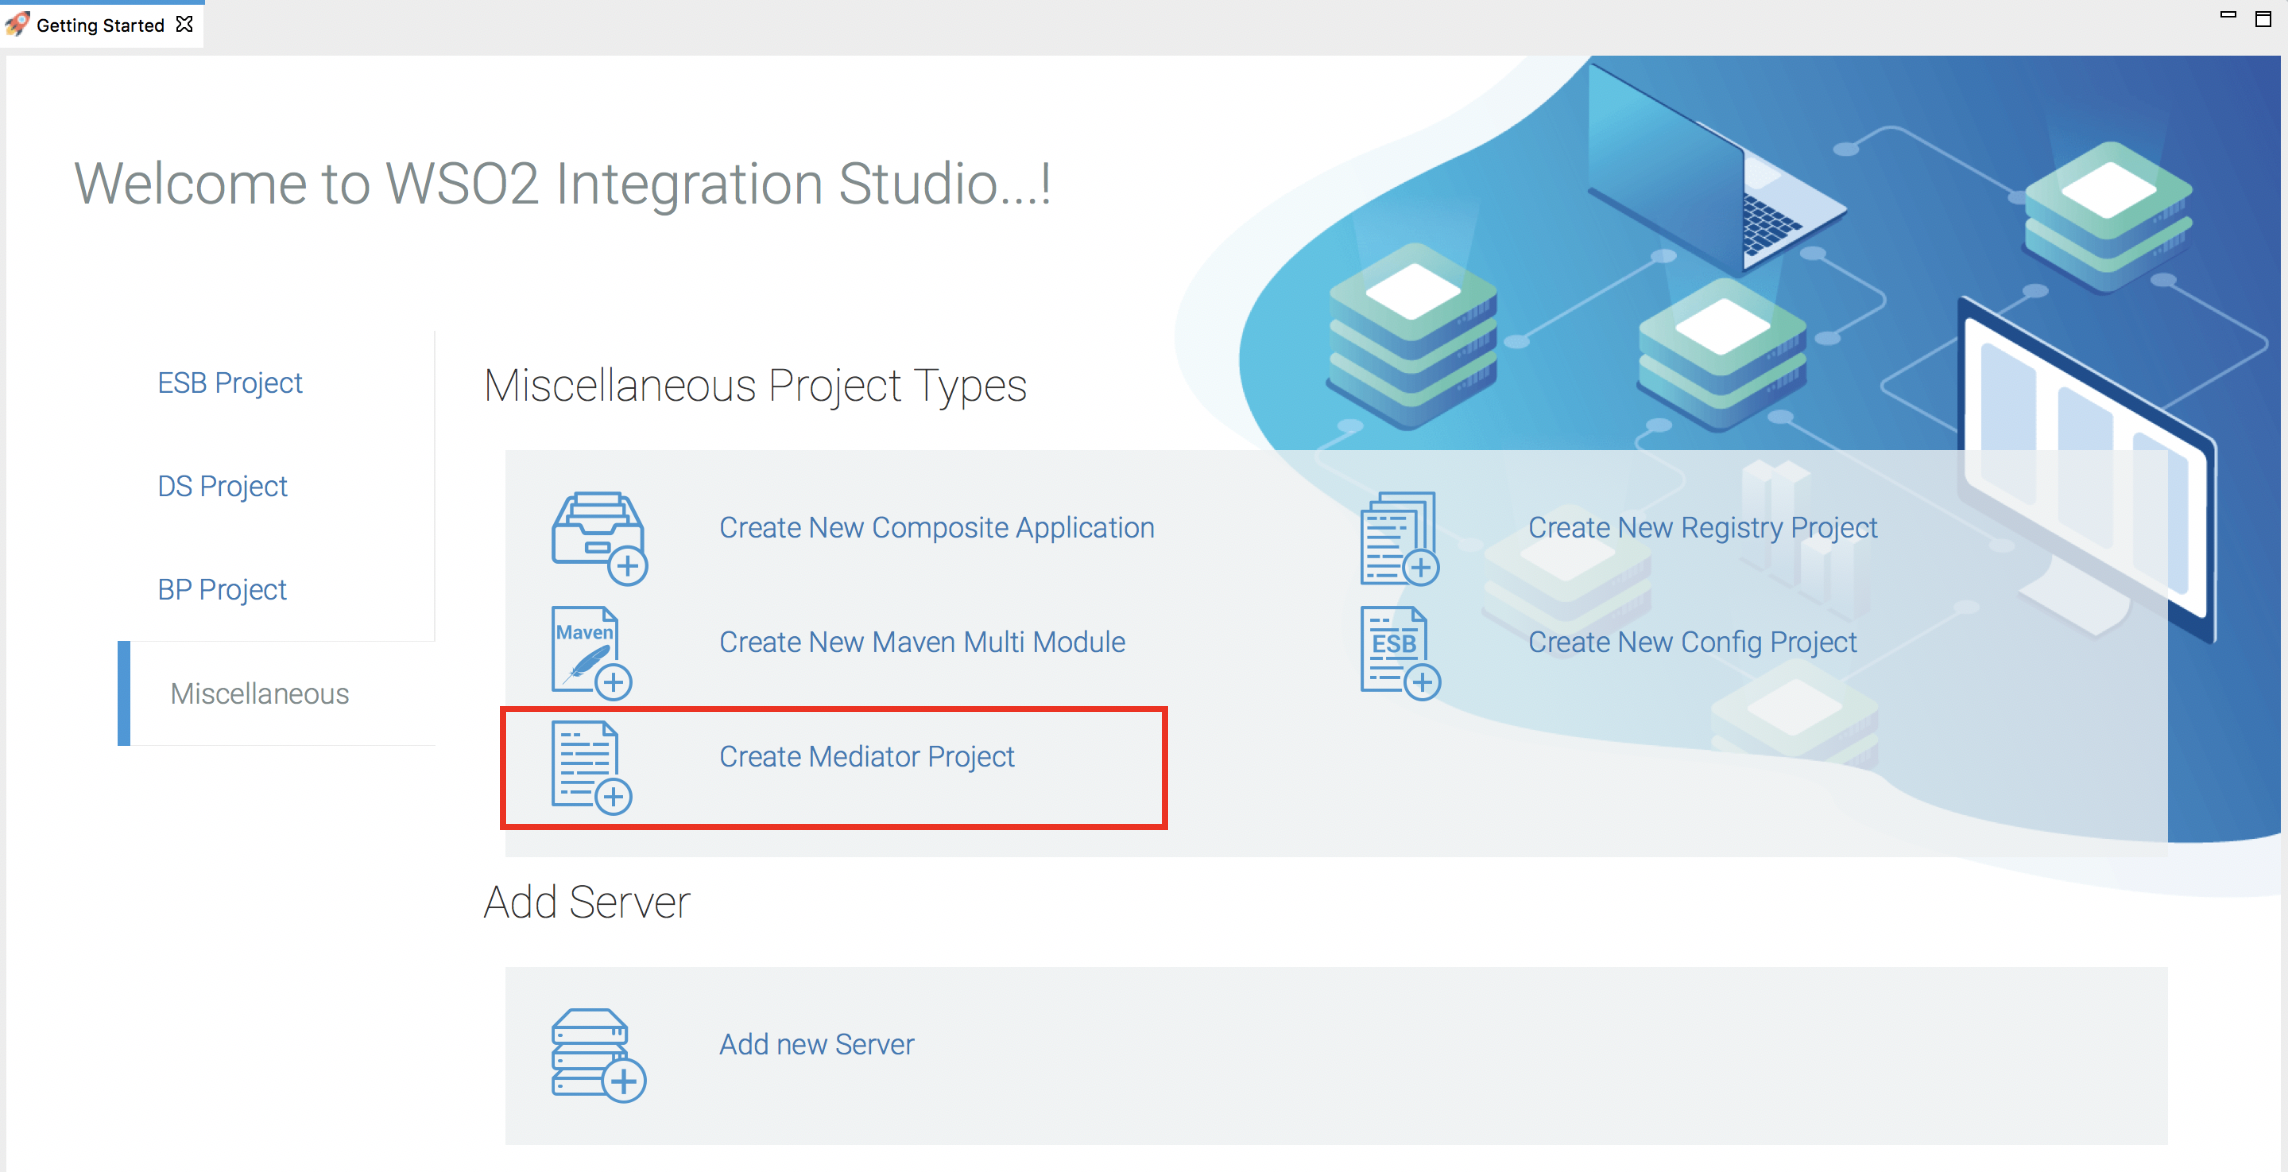
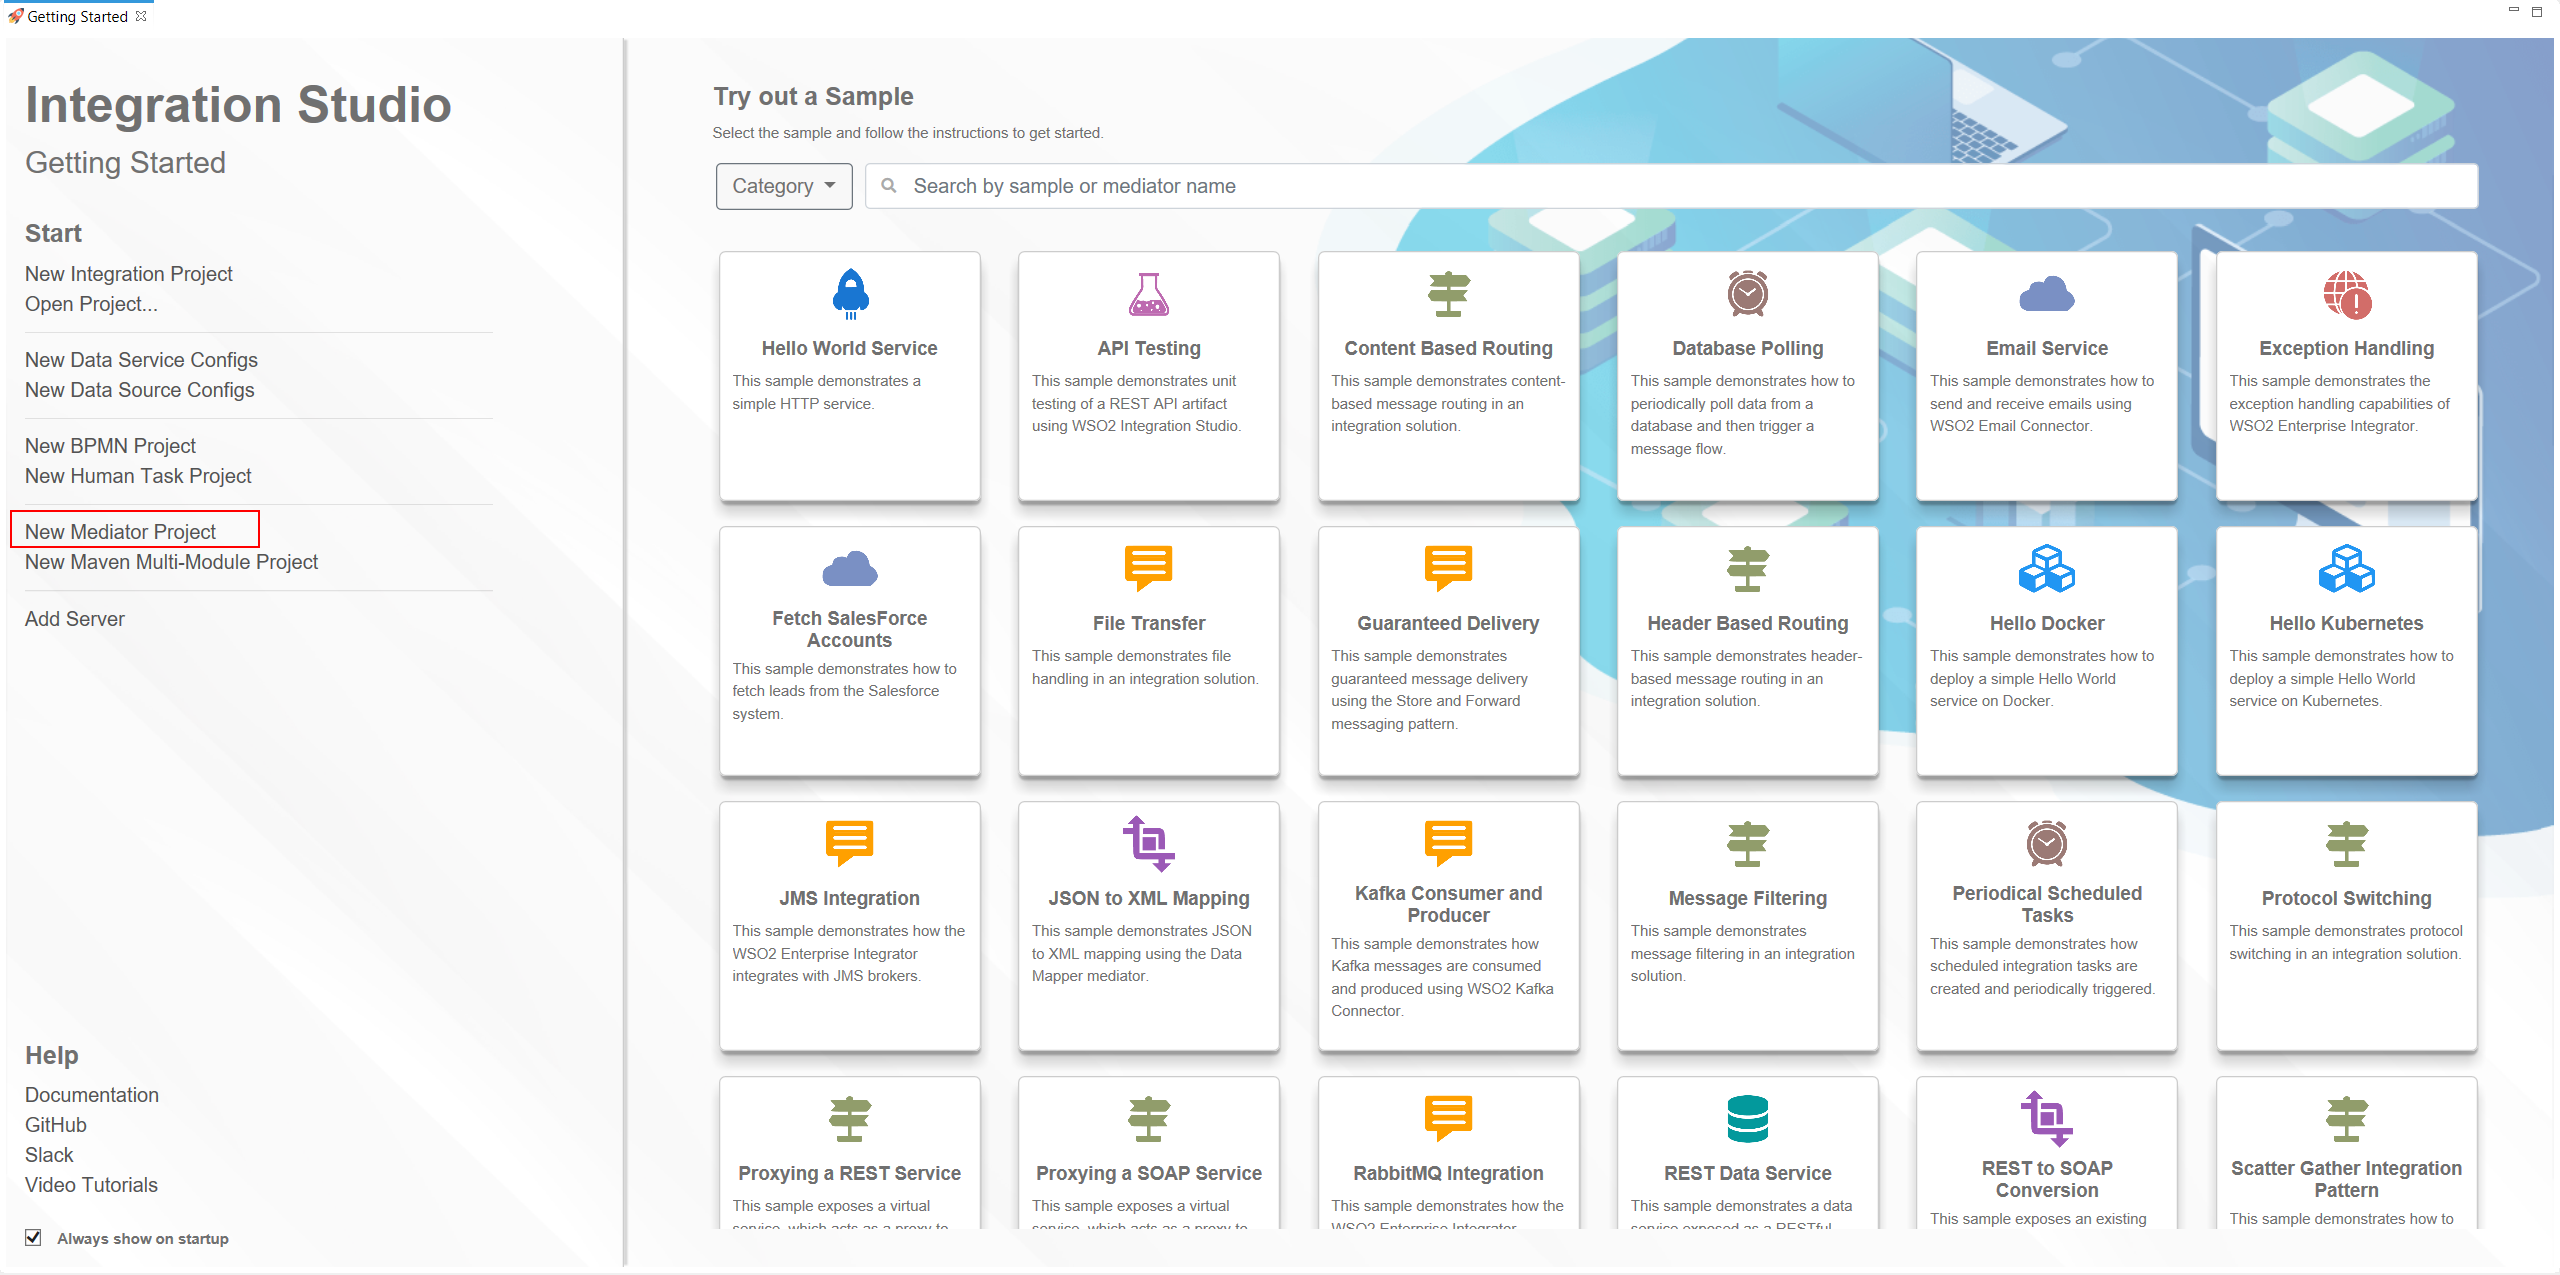
Update Creating a Custom Mediator Doc

diff --git a/en/micro-integrator/docs/develop/customizations/creating-custom-mediators.md b/en/micro-integrator/docs/develop/customizations/creating-custom-mediators.md
@@ -26,7 +26,7 @@ The mediator project is created in the workspace location you specified with a n
 
 Follow the steps below to import a Java mediator project (that includes a Java class, which extends the `         org.apache.synapse.mediators.AbstractMediator        ` class) to WSO2 Integration Studio.
 
-1.  Open <b>WSO2 Integration Studio</b> and click <b>Miscellaneous → Create Mediator Project</b> in the <b>Getting Started</b> view as shown below.
+1.  Open <b>WSO2 Integration Studio</b> and click on <b>Create Mediator Project</b> in the <b>Getting Started</b> view as shown above.
 2.  In the dialog that opens, select **Import From Workspace** and click **Next**.
 3.  Specify the mediator project in this workspace that you want to import. Only projects with source files that extend `org.apache.synapse.mediators.AbstractMediator` are listed. Optionally, you can change the location where the mediator project will be created and add it to working sets.
 4.  Click **Finish**.
